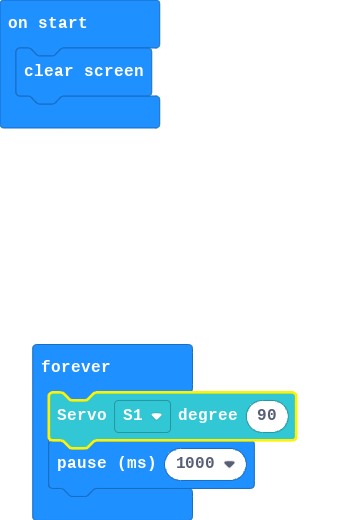
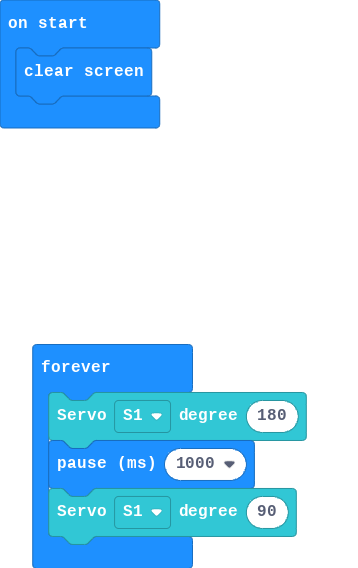
Update main.blocks, main.ts

Changed region(s): [[0.0862, 0.5846, 0.8621, 1.0], [0.0, 0.0, 0.4598, 0.2462]]

diff --git a/main.ts b/main.ts
@@ -1,5 +1,6 @@
 basic.clearScreen()
 basic.forever(function () {
-    robotbit.Servo(robotbit.Servos.S1, 90)
+    robotbit.Servo(robotbit.Servos.S1, 180)
     basic.pause(1000)
+    robotbit.Servo(robotbit.Servos.S1, 90)
 })
